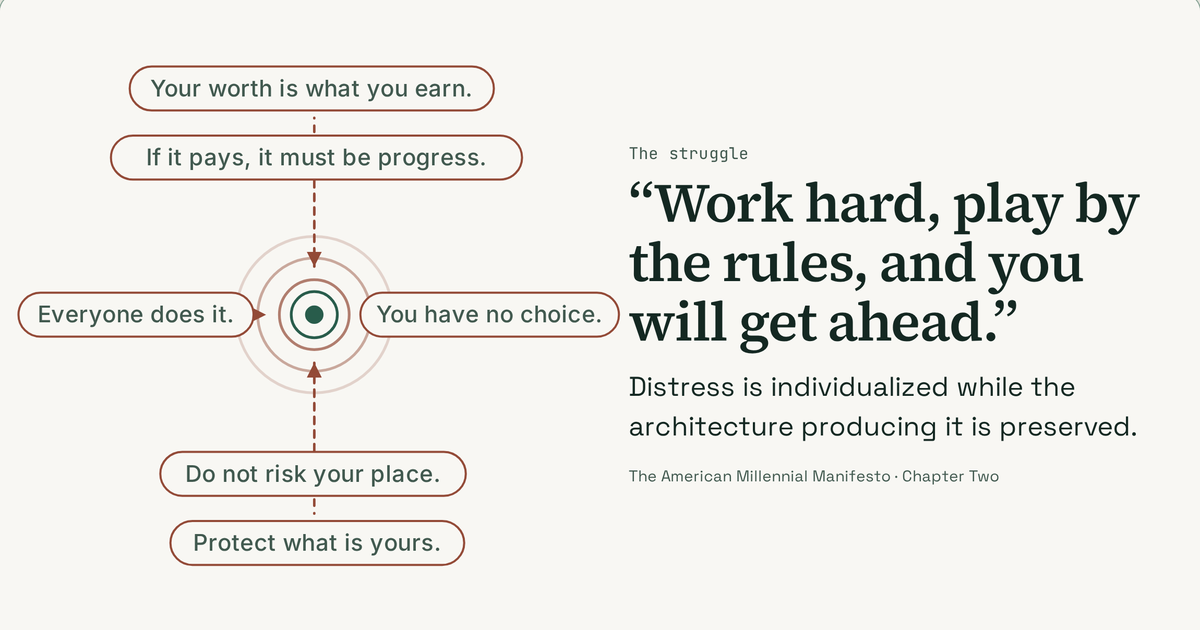
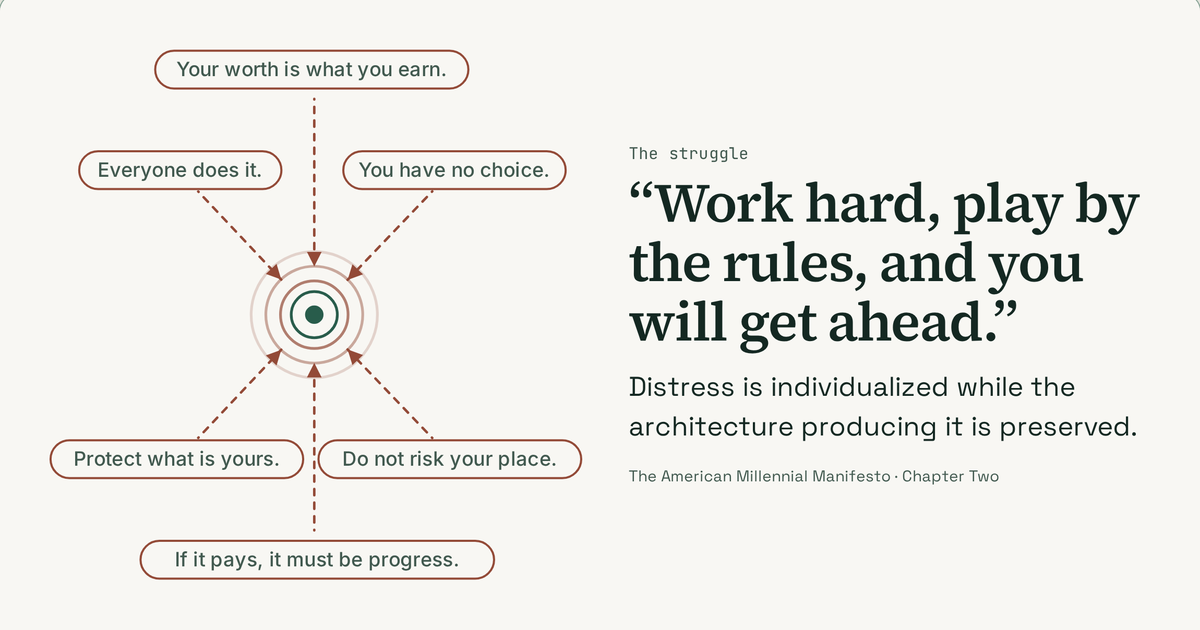
Give the struggle's six messages clear space around the person
From the author's review ("Fighting for space. Refine a bit."): the six
AMM messages now sit evenly around the person at a slightly smaller size,
and the pain rings stay clear of them, so no message crowds another or the
text column. The share image is regenerated from the new frame.

Manifesto: serves L1 (a calmer, legible opening frame). Violates none.

diff --git a/frontend/src/blocks/films/ConceptFilmMotifs.tsx b/frontend/src/blocks/films/ConceptFilmMotifs.tsx
@@ -81,20 +81,29 @@ function Label({
 }
 
 /** A short line of words in a rounded card, centred on (x, y). */
-function Pill({ x, y, text, show, tone = "cm-line", strong = false }: {
+function Pill({ x, y, text, show, tone = "cm-line", strong = false, size = 1 }: {
   x: number;
   y: number;
   text: string;
   show: number;
   tone?: string;
   strong?: boolean;
+  /** Scales the card and its words together, for a picture that holds many of them. */
+  size?: number;
 }) {
   if (show <= 0.001) return null;
-  const width = text.length * 11.2 + 34;
+  const width = (text.length * 11.2 + 34) * size;
+  const height = 42 * size;
   return (
     <g opacity={show}>
-      <rect x={x - width / 2} y={y - 21} width={width} height={42} rx={21} className={`cm-s cm-hollow ${tone}`} strokeWidth={2} />
-      <text x={x} y={y + 7.5} textAnchor="middle" className={strong ? "cm-label cm-label--strong" : "cm-label"}>
+      <rect x={x - width / 2} y={y - height / 2} width={width} height={height} rx={height / 2} className={`cm-s cm-hollow ${tone}`} strokeWidth={2} />
+      <text
+        x={x}
+        y={y + 7.5 * size}
+        textAnchor="middle"
+        className={strong ? "cm-label cm-label--strong" : "cm-label"}
+        style={size === 1 ? undefined : { fontSize: `${22 * size}px` }}
+      >
         {text}
       </text>
     </g>
@@ -1168,15 +1177,17 @@ export function LimitsAndDebts({ t }: MotifProps) {
    rises out of it. Its clock gives the scenes 11, 12, 12, and 7 seconds
    (TOUR_OPENING_DRAWN_SECONDS); the tour stretches each to fill its scene. */
 
-// The six cultural messages the American Millennial Manifesto examines.
+// The six cultural messages the American Millennial Manifesto examines, set around the
+// person with clear space between each message and the pain at the centre.
 const PRESSURES = [
-  { text: "Your worth is what you earn.", at: [300, 84] as Point },
-  { text: "If it pays, it must be progress.", at: [300, 150] as Point },
-  { text: "Everyone does it.", at: [128, 300] as Point },
-  { text: "You have no choice.", at: [470, 300] as Point },
-  { text: "Do not risk your place.", at: [300, 452] as Point },
-  { text: "Protect what is yours.", at: [300, 518] as Point },
+  { text: "Your worth is what you earn.", at: [300, 66] as Point },
+  { text: "Everyone does it.", at: [170, 162] as Point },
+  { text: "You have no choice.", at: [432, 162] as Point },
+  { text: "Do not risk your place.", at: [432, 438] as Point },
+  { text: "Protect what is yours.", at: [170, 438] as Point },
+  { text: "If it pays, it must be progress.", at: [300, 534] as Point },
 ];
+const PRESSURE_SIZE = 0.86;
 // The book's words for what the trap makes ordinary.
 const TRAP_TERMS = [
   { text: "time as money", y: 70 },
@@ -1287,7 +1298,7 @@ export function TourOpening({ t }: MotifProps) {
           {[0, 1, 2].map((n) => {
             const phase = (((t - 4 - n * 0.8) % 2.4) + 2.4) % 2.4 / 2.4;
             return (
-              <circle key={n} cx={300} cy={300} r={30 + 62 * phase} className="cm-s cm-fear" strokeWidth={2.6} opacity={(1 - phase) * 0.75 * span(t, 4, 5)} />
+              <circle key={n} cx={300} cy={300} r={30 + 42 * phase} className="cm-s cm-fear" strokeWidth={2.6} opacity={(1 - phase) * 0.75 * span(t, 4, 5)} />
             );
           })}
           <Participant at={[300, 300]} r={22} show={span(t, 0.1, 0.8)} />
@@ -1299,6 +1310,7 @@ export function TourOpening({ t }: MotifProps) {
               text={text}
               show={span(t, 0.6 + k * 0.55, 1.2 + k * 0.55)}
               tone="cm-fear"
+              size={PRESSURE_SIZE}
             />
           ))}
         </g>
